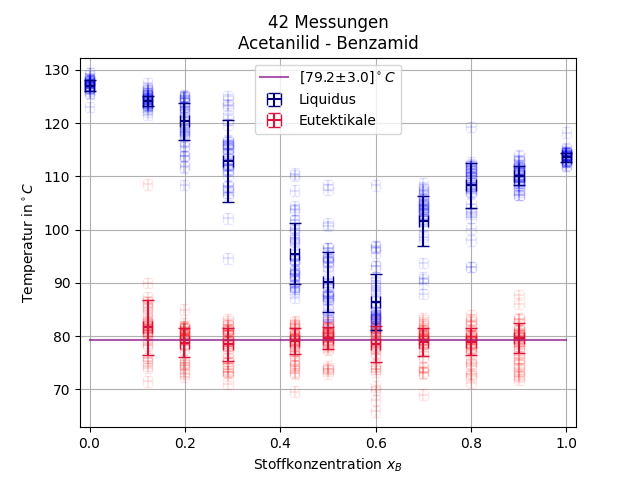
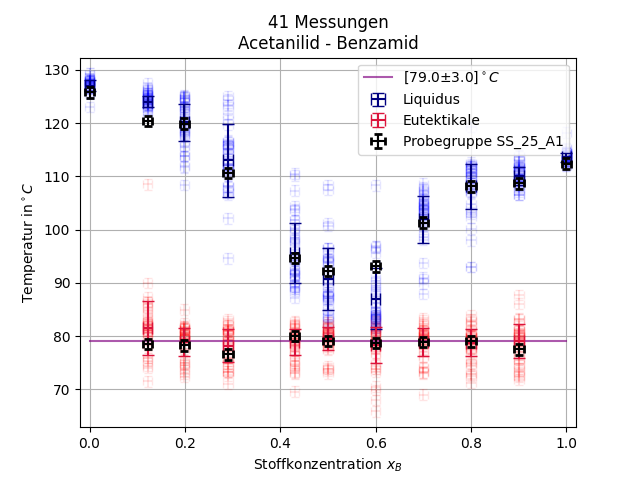
modified:   Daten/Mikroskop_SS_25.csv 	modified:   Mikroskop.py 	modified:   PNG/Mikroskop/Alle Benzamid.png 	modified:   PNG/Mikroskop/Alle Benzil.png 	new file:   PNG/Mikroskop/SS 25/A1_Benzamid_Mikroskop.png 	new file:   PNG/Mikroskop/SS 25/A2_Benzil_Mikroskop.png 	new file:   PNG/Mikroskop/SS 25

diff --git a/Mikroskop.py b/Mikroskop.py
@@ -169,7 +169,7 @@ def jeder_stoff_ein_plot(Probegruppe = 'SS_25_A1'):
         fit(lin, Anteil[:9], np.mean(mean, axis=0)[:9], None, np.sqrt(np.mean(Sigma, axis=0))[:9], 'purple', True)
         if Probegruppe != None and f'{Probegruppe}_{Stoff}' in data_dict:
             Probegruppen_Data = data_dict[f'{Probegruppe}_{Stoff}']
-            print(Anteil, Probegruppen_Data)
+            # print(Anteil, Probegruppen_Data)
             plt.errorbar(Anteil[9:], Probegruppen_Data[9:], xerr=0.01, yerr=1, linestyle='none', color='black', capsize=3, capthick=2, zorder = 12, label=f'Probegruppe {Probegruppe}')
             plt.errorbar(Anteil[:9], Probegruppen_Data[:9], xerr=0.01, yerr=1, linestyle='none', color='black', capsize=3, capthick=2, zorder = 12)
         Plotparams(f'Alle {Stoff}', f'{Len} Messungen\nAcetanilid - {Stoff}', minmax, True)
@@ -177,7 +177,7 @@ def jeder_stoff_ein_plot(Probegruppe = 'SS_25_A1'):
 
 if __name__ == '__main__':
     # eine_gruppe_ein_plot('SS_25', 'A5')        # Beispiel für eine Gruppe
-    # jede_gruppe_ein_plot()                     # Gibt für jede Gruppe einen Plot aus
+    jede_gruppe_ein_plot()                     # Gibt für jede Gruppe einen Plot aus
     mean_std = get_mean_std()
     # jedes_semester_ein_plot()                  # Gibt für jedes Semester einen Plot aus
-    jeder_stoff_ein_plot('SS_25_A1')                     # Gibt die Zusammenfassungen von Semester 1-4 in einem Plot aus
+    jeder_stoff_ein_plot()                     # Gibt die Zusammenfassungen von Semester 1-4 in einem Plot aus
